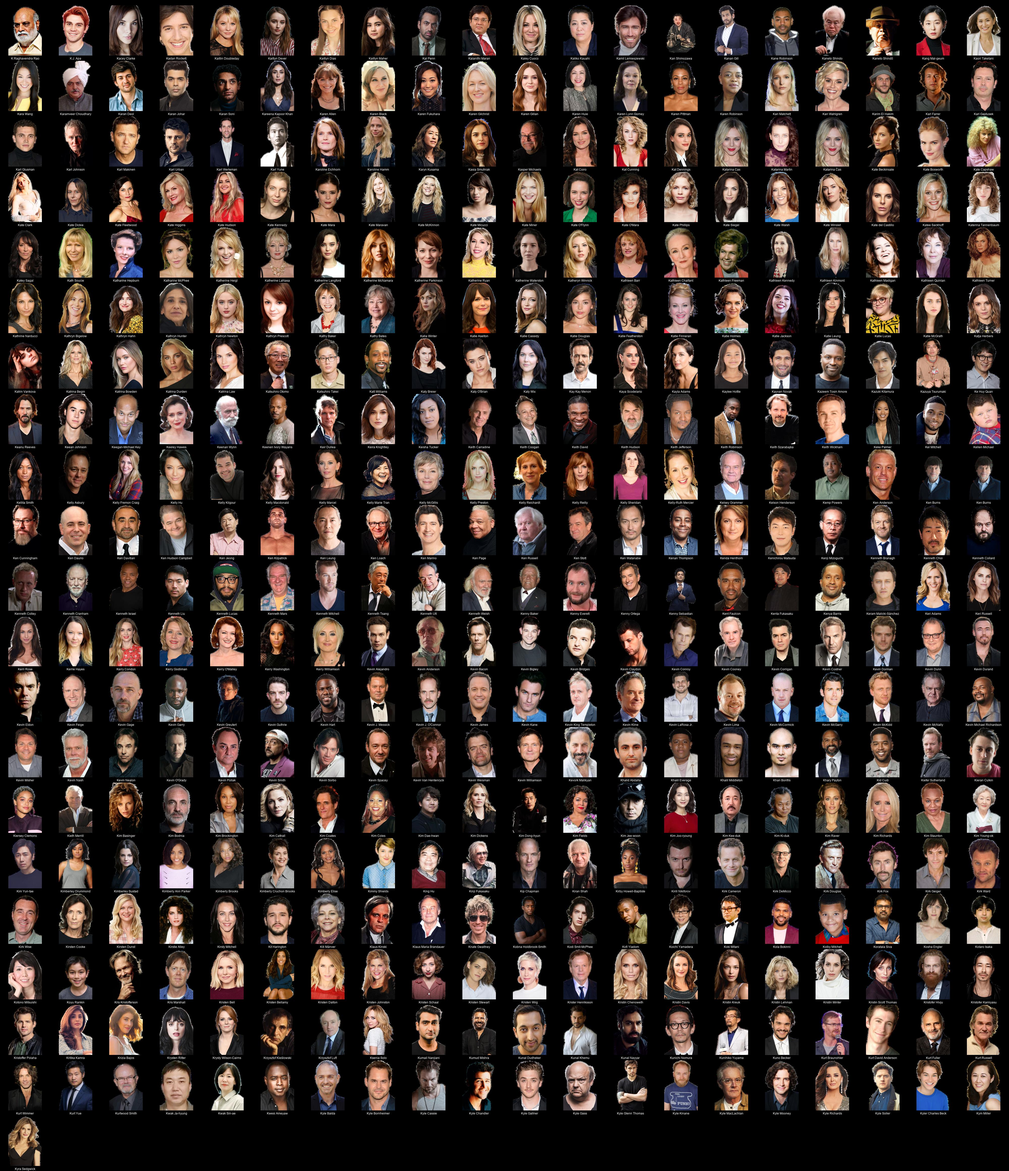
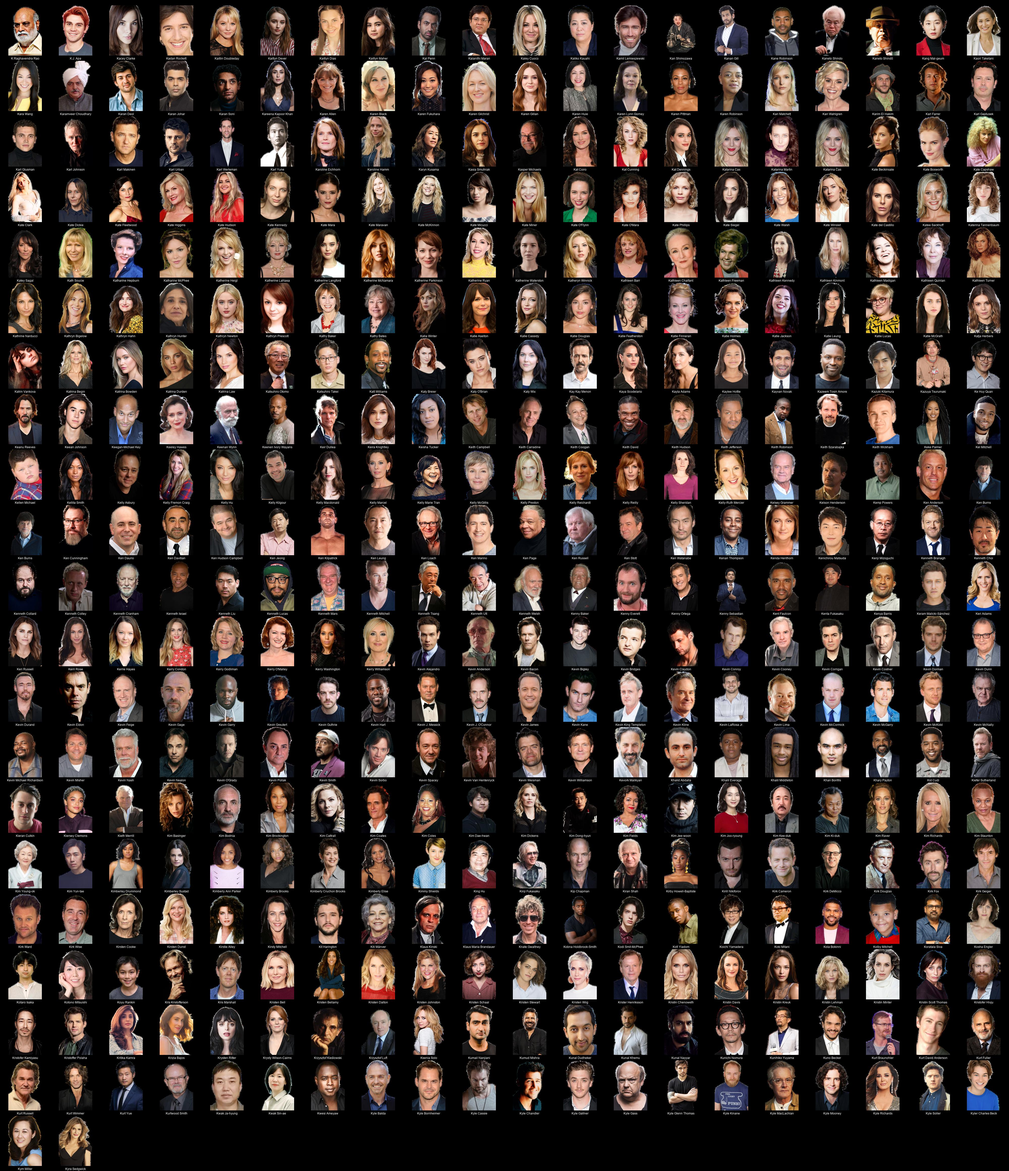
more people

Changed region(s): [[0.0, 0.3125, 1.0, 1.0]]

diff --git a/README.md b/README.md
@@ -1,4 +1,4 @@
-# Kometa People Images - Transparent (transparent) (8883 Images)
+# Kometa People Images - Transparent (transparent) (8886 Images)
 
 <details><summary><a href="'">' (1 Images)</a></summary>
 
@@ -1197,7 +1197,7 @@
 * [Béla Tarr](https://raw.githubusercontent.com/Kometa-Team/People-Images-transparent/master/B/Images/B%C3%A9la%20Tarr.png)
 * [Bérénice Bejo](https://raw.githubusercontent.com/Kometa-Team/People-Images-transparent/master/B/Images/B%C3%A9r%C3%A9nice%20Bejo.png)
 </details>
-<details><summary><a href="C">C (588 Images)</a></summary>
+<details><summary><a href="C">C (589 Images)</a></summary>
 
 * [C. Robert Cargill](https://raw.githubusercontent.com/Kometa-Team/People-Images-transparent/master/C/Images/C.%20Robert%20Cargill.png)
 * [C. S. Forester](https://raw.githubusercontent.com/Kometa-Team/People-Images-transparent/master/C/Images/C.%20S.%20Forester.png)
@@ -1329,6 +1329,7 @@
 * [Cathryn Michon](https://raw.githubusercontent.com/Kometa-Team/People-Images-transparent/master/C/Images/Cathryn%20Michon.png)
 * [Cathy Ang](https://raw.githubusercontent.com/Kometa-Team/People-Images-transparent/master/C/Images/Cathy%20Ang.png)
 * [Cathy Belton](https://raw.githubusercontent.com/Kometa-Team/People-Images-transparent/master/C/Images/Cathy%20Belton.png)
+* [Cathy Cavadini](https://raw.githubusercontent.com/Kometa-Team/People-Images-transparent/master/C/Images/Cathy%20Cavadini.png)
 * [Cathy Konrad](https://raw.githubusercontent.com/Kometa-Team/People-Images-transparent/master/C/Images/Cathy%20Konrad.png)
 * [Cathy Yan](https://raw.githubusercontent.com/Kometa-Team/People-Images-transparent/master/C/Images/Cathy%20Yan.png)
 * [Catriona MacColl](https://raw.githubusercontent.com/Kometa-Team/People-Images-transparent/master/C/Images/Catriona%20MacColl.png)
@@ -2884,7 +2885,7 @@
 * [Fritz Lang](https://raw.githubusercontent.com/Kometa-Team/People-Images-transparent/master/F/Images/Fritz%20Lang.png)
 * [Frédéric North](https://raw.githubusercontent.com/Kometa-Team/People-Images-transparent/master/F/Images/Fr%C3%A9d%C3%A9ric%20North.png)
 </details>
-<details><summary><a href="G">G (307 Images)</a></summary>
+<details><summary><a href="G">G (308 Images)</a></summary>
 
 * [G-Eazy](https://raw.githubusercontent.com/Kometa-Team/People-Images-transparent/master/G/Images/G-Eazy.png)
 * [G. D. Spradlin](https://raw.githubusercontent.com/Kometa-Team/People-Images-transparent/master/G/Images/G.%20D.%20Spradlin.png)
@@ -3192,6 +3193,7 @@
 * [Gwyneth Paltrow](https://raw.githubusercontent.com/Kometa-Team/People-Images-transparent/master/G/Images/Gwyneth%20Paltrow.png)
 * [Gérard Depardieu](https://raw.githubusercontent.com/Kometa-Team/People-Images-transparent/master/G/Images/G%C3%A9rard%20Depardieu.png)
 * [Götz Otto](https://raw.githubusercontent.com/Kometa-Team/People-Images-transparent/master/G/Images/G%C3%B6tz%20Otto.png)
+* [Günter Lamprecht](https://raw.githubusercontent.com/Kometa-Team/People-Images-transparent/master/G/Images/G%C3%BCnter%20Lamprecht.png)
 * [Günther Stoll](https://raw.githubusercontent.com/Kometa-Team/People-Images-transparent/master/G/Images/G%C3%BCnther%20Stoll.png)
 </details>
 <details><summary><a href="H">H (197 Images)</a></summary>
@@ -4609,7 +4611,7 @@
 * [Jürgen Prochnow](https://raw.githubusercontent.com/Kometa-Team/People-Images-transparent/master/J/Images/J%C3%BCrgen%20Prochnow.png)
 * [Jūzō Itami](https://raw.githubusercontent.com/Kometa-Team/People-Images-transparent/master/J/Images/J%C5%ABz%C5%8D%20Itami.png)
 </details>
-<details><summary><a href="K">K (401 Images)</a></summary>
+<details><summary><a href="K">K (402 Images)</a></summary>
 
 * [K Raghavendra Rao](https://raw.githubusercontent.com/Kometa-Team/People-Images-transparent/master/K/Images/K%20Raghavendra%20Rao.png)
 * [K.J. Apa](https://raw.githubusercontent.com/Kometa-Team/People-Images-transparent/master/K/Images/K.J.%20Apa.png)
@@ -4760,6 +4762,7 @@
 * [Keir Dullea](https://raw.githubusercontent.com/Kometa-Team/People-Images-transparent/master/K/Images/Keir%20Dullea.png)
 * [Keira Knightley](https://raw.githubusercontent.com/Kometa-Team/People-Images-transparent/master/K/Images/Keira%20Knightley.png)
 * [Keisha Tucker](https://raw.githubusercontent.com/Kometa-Team/People-Images-transparent/master/K/Images/Keisha%20Tucker.png)
+* [Keith Campbell](https://raw.githubusercontent.com/Kometa-Team/People-Images-transparent/master/K/Images/Keith%20Campbell.png)
 * [Keith Carradine](https://raw.githubusercontent.com/Kometa-Team/People-Images-transparent/master/K/Images/Keith%20Carradine.png)
 * [Keith Coogan](https://raw.githubusercontent.com/Kometa-Team/People-Images-transparent/master/K/Images/Keith%20Coogan.png)
 * [Keith David](https://raw.githubusercontent.com/Kometa-Team/People-Images-transparent/master/K/Images/Keith%20David.png)

diff --git a/K/README.md b/K/README.md
@@ -1,4 +1,4 @@
-# Kometa People Images - Transparent (transparent) - K (401 Images)
+# Kometa People Images - Transparent (transparent) - K (402 Images)
 ![Grid](grid.jpg)
 
 * [K Raghavendra Rao](https://raw.githubusercontent.com/Kometa-Team/People-Images-transparent/master/K/Images/K%20Raghavendra%20Rao.png)
@@ -150,6 +150,7 @@
 * [Keir Dullea](https://raw.githubusercontent.com/Kometa-Team/People-Images-transparent/master/K/Images/Keir%20Dullea.png)
 * [Keira Knightley](https://raw.githubusercontent.com/Kometa-Team/People-Images-transparent/master/K/Images/Keira%20Knightley.png)
 * [Keisha Tucker](https://raw.githubusercontent.com/Kometa-Team/People-Images-transparent/master/K/Images/Keisha%20Tucker.png)
+* [Keith Campbell](https://raw.githubusercontent.com/Kometa-Team/People-Images-transparent/master/K/Images/Keith%20Campbell.png)
 * [Keith Carradine](https://raw.githubusercontent.com/Kometa-Team/People-Images-transparent/master/K/Images/Keith%20Carradine.png)
 * [Keith Coogan](https://raw.githubusercontent.com/Kometa-Team/People-Images-transparent/master/K/Images/Keith%20Coogan.png)
 * [Keith David](https://raw.githubusercontent.com/Kometa-Team/People-Images-transparent/master/K/Images/Keith%20David.png)

diff --git a/C/README.md b/C/README.md
@@ -1,4 +1,4 @@
-# Kometa People Images - Transparent (transparent) - C (588 Images)
+# Kometa People Images - Transparent (transparent) - C (589 Images)
 ![Grid](grid.jpg)
 
 * [C. Robert Cargill](https://raw.githubusercontent.com/Kometa-Team/People-Images-transparent/master/C/Images/C.%20Robert%20Cargill.png)
@@ -131,6 +131,7 @@
 * [Cathryn Michon](https://raw.githubusercontent.com/Kometa-Team/People-Images-transparent/master/C/Images/Cathryn%20Michon.png)
 * [Cathy Ang](https://raw.githubusercontent.com/Kometa-Team/People-Images-transparent/master/C/Images/Cathy%20Ang.png)
 * [Cathy Belton](https://raw.githubusercontent.com/Kometa-Team/People-Images-transparent/master/C/Images/Cathy%20Belton.png)
+* [Cathy Cavadini](https://raw.githubusercontent.com/Kometa-Team/People-Images-transparent/master/C/Images/Cathy%20Cavadini.png)
 * [Cathy Konrad](https://raw.githubusercontent.com/Kometa-Team/People-Images-transparent/master/C/Images/Cathy%20Konrad.png)
 * [Cathy Yan](https://raw.githubusercontent.com/Kometa-Team/People-Images-transparent/master/C/Images/Cathy%20Yan.png)
 * [Catriona MacColl](https://raw.githubusercontent.com/Kometa-Team/People-Images-transparent/master/C/Images/Catriona%20MacColl.png)

diff --git a/G/README.md b/G/README.md
@@ -1,4 +1,4 @@
-# Kometa People Images - Transparent (transparent) - G (307 Images)
+# Kometa People Images - Transparent (transparent) - G (308 Images)
 ![Grid](grid.jpg)
 
 * [G-Eazy](https://raw.githubusercontent.com/Kometa-Team/People-Images-transparent/master/G/Images/G-Eazy.png)
@@ -307,4 +307,5 @@
 * [Gwyneth Paltrow](https://raw.githubusercontent.com/Kometa-Team/People-Images-transparent/master/G/Images/Gwyneth%20Paltrow.png)
 * [Gérard Depardieu](https://raw.githubusercontent.com/Kometa-Team/People-Images-transparent/master/G/Images/G%C3%A9rard%20Depardieu.png)
 * [Götz Otto](https://raw.githubusercontent.com/Kometa-Team/People-Images-transparent/master/G/Images/G%C3%B6tz%20Otto.png)
+* [Günter Lamprecht](https://raw.githubusercontent.com/Kometa-Team/People-Images-transparent/master/G/Images/G%C3%BCnter%20Lamprecht.png)
 * [Günther Stoll](https://raw.githubusercontent.com/Kometa-Team/People-Images-transparent/master/G/Images/G%C3%BCnther%20Stoll.png)
